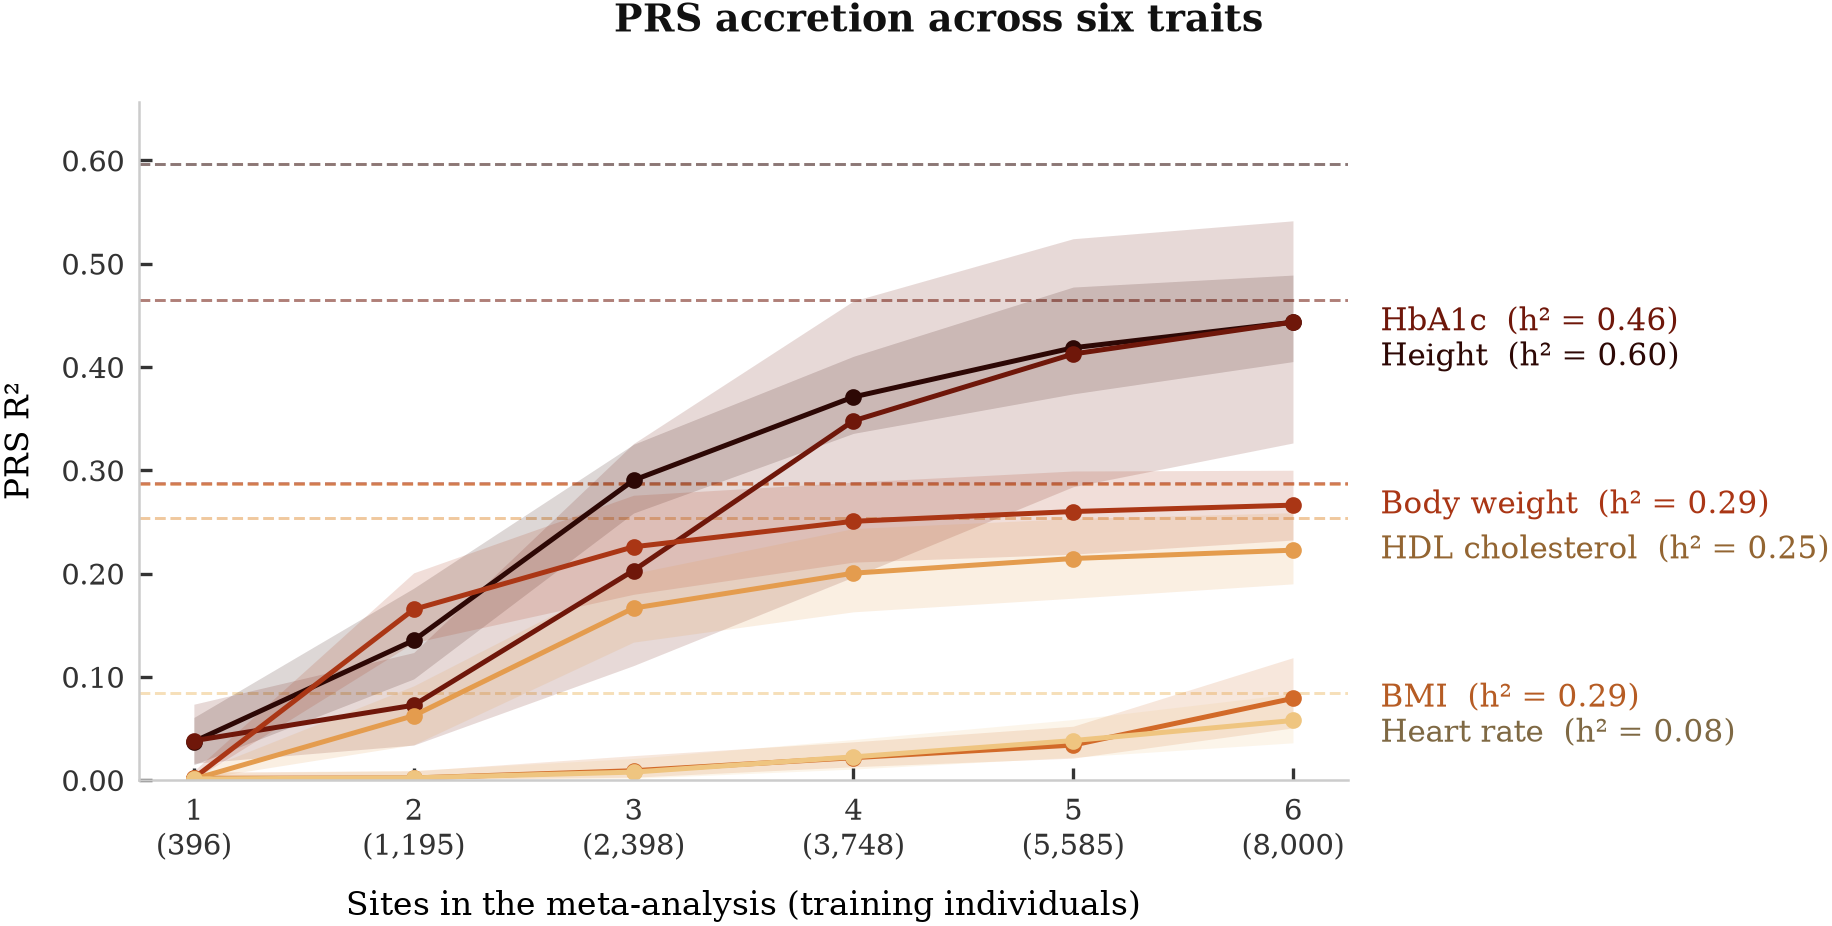
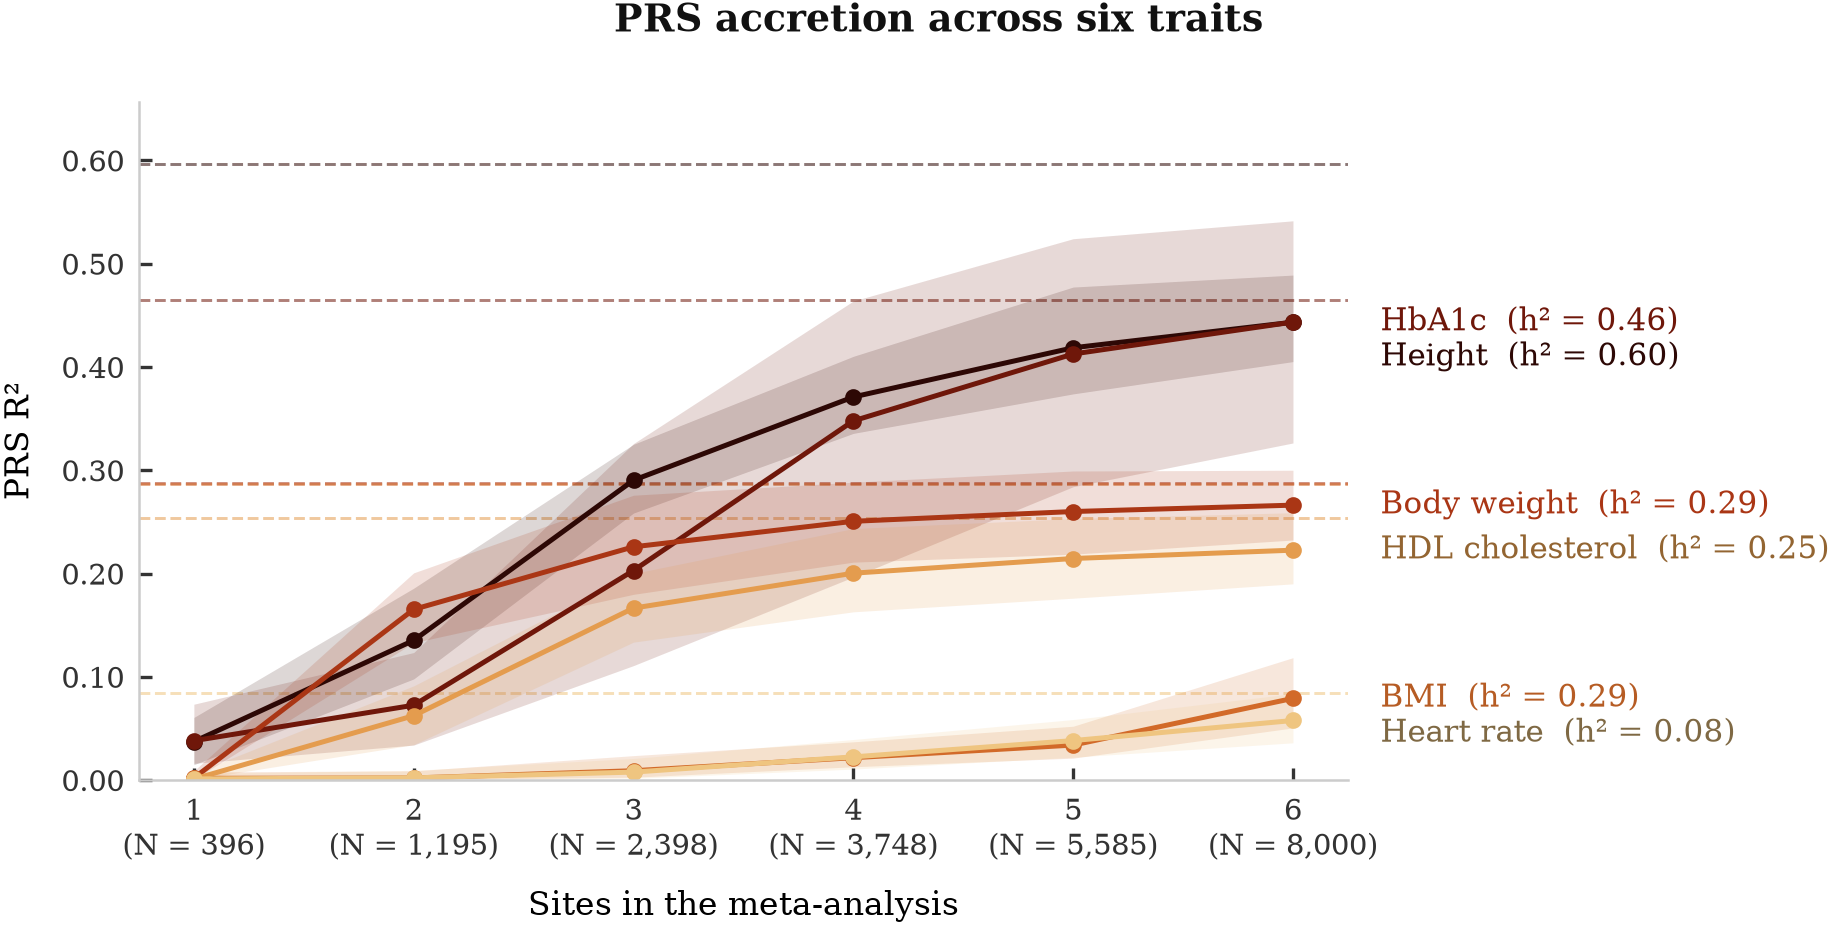
trait_curves x-axis matches prs_accretion
The axis label no longer carries a parenthetical describing the tick labels;
the ticks say (N = 396) themselves, as they already did on prs_accretion.

diff --git a/Henrik/scripts/plot_trait_curves.py b/Henrik/scripts/plot_trait_curves.py
@@ -82,9 +82,9 @@ for value, colour, text in entries:
 ax.set_ylim(0, max(heritability[t] for t in traits) * 1.10)
 steps = sorted(best["n_sites"].unique())
 ax.set_xticks(steps)
-ax.set_xticklabels([f"{step}\n({train_n[step]:,})" for step in steps])
+ax.set_xticklabels([f"{step}\n(N = {train_n[step]:,})" for step in steps])
 ax.yaxis.set_major_formatter(FuncFormatter(lambda y, _: f"{y:.2f}"))
-ax.set_xlabel("Sites in the meta-analysis (training individuals)", fontsize=8, labelpad=6)
+ax.set_xlabel("Sites in the meta-analysis", fontsize=8, labelpad=6)
 ax.set_ylabel("PRS R²", fontsize=8, labelpad=6)
 ax.tick_params(labelsize=7)
 for y, colour, text in placed:
